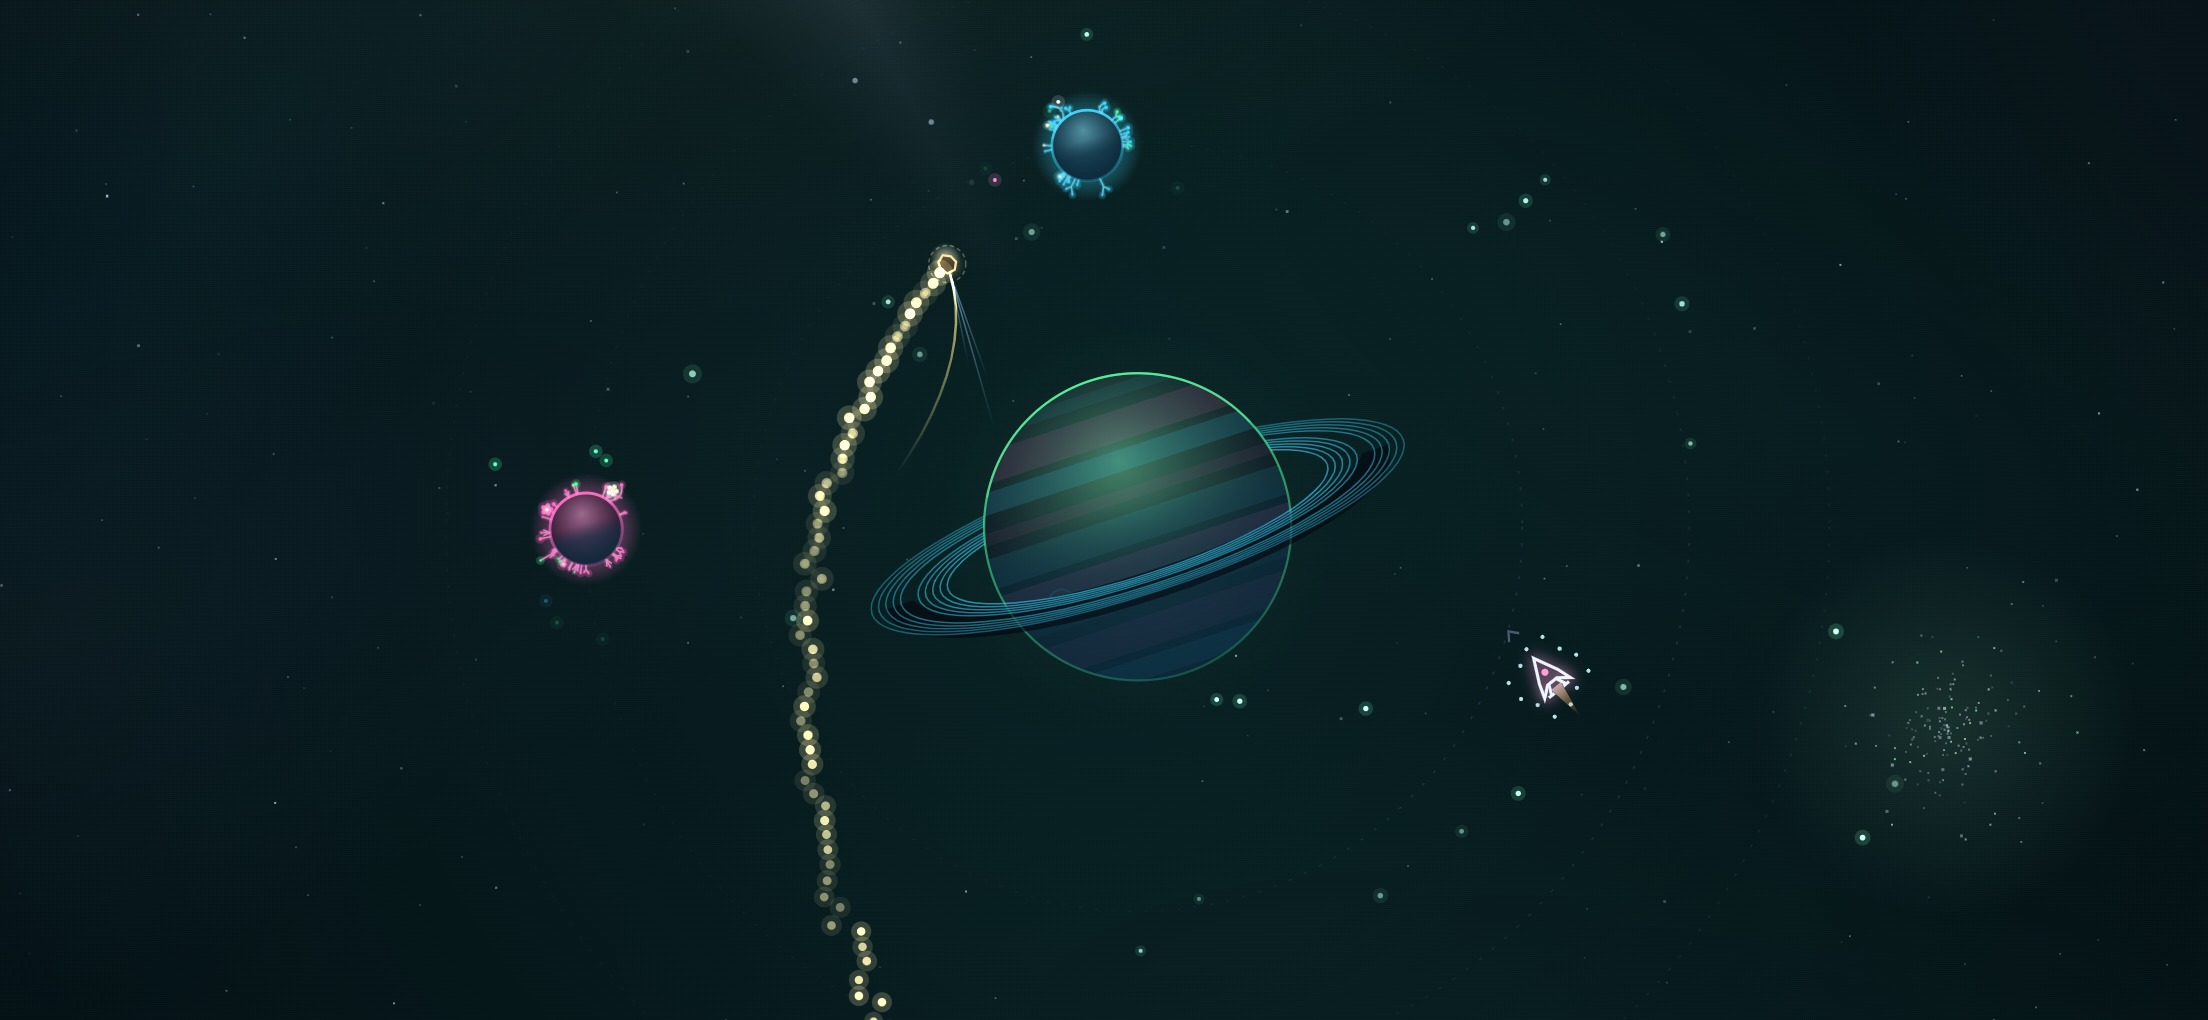
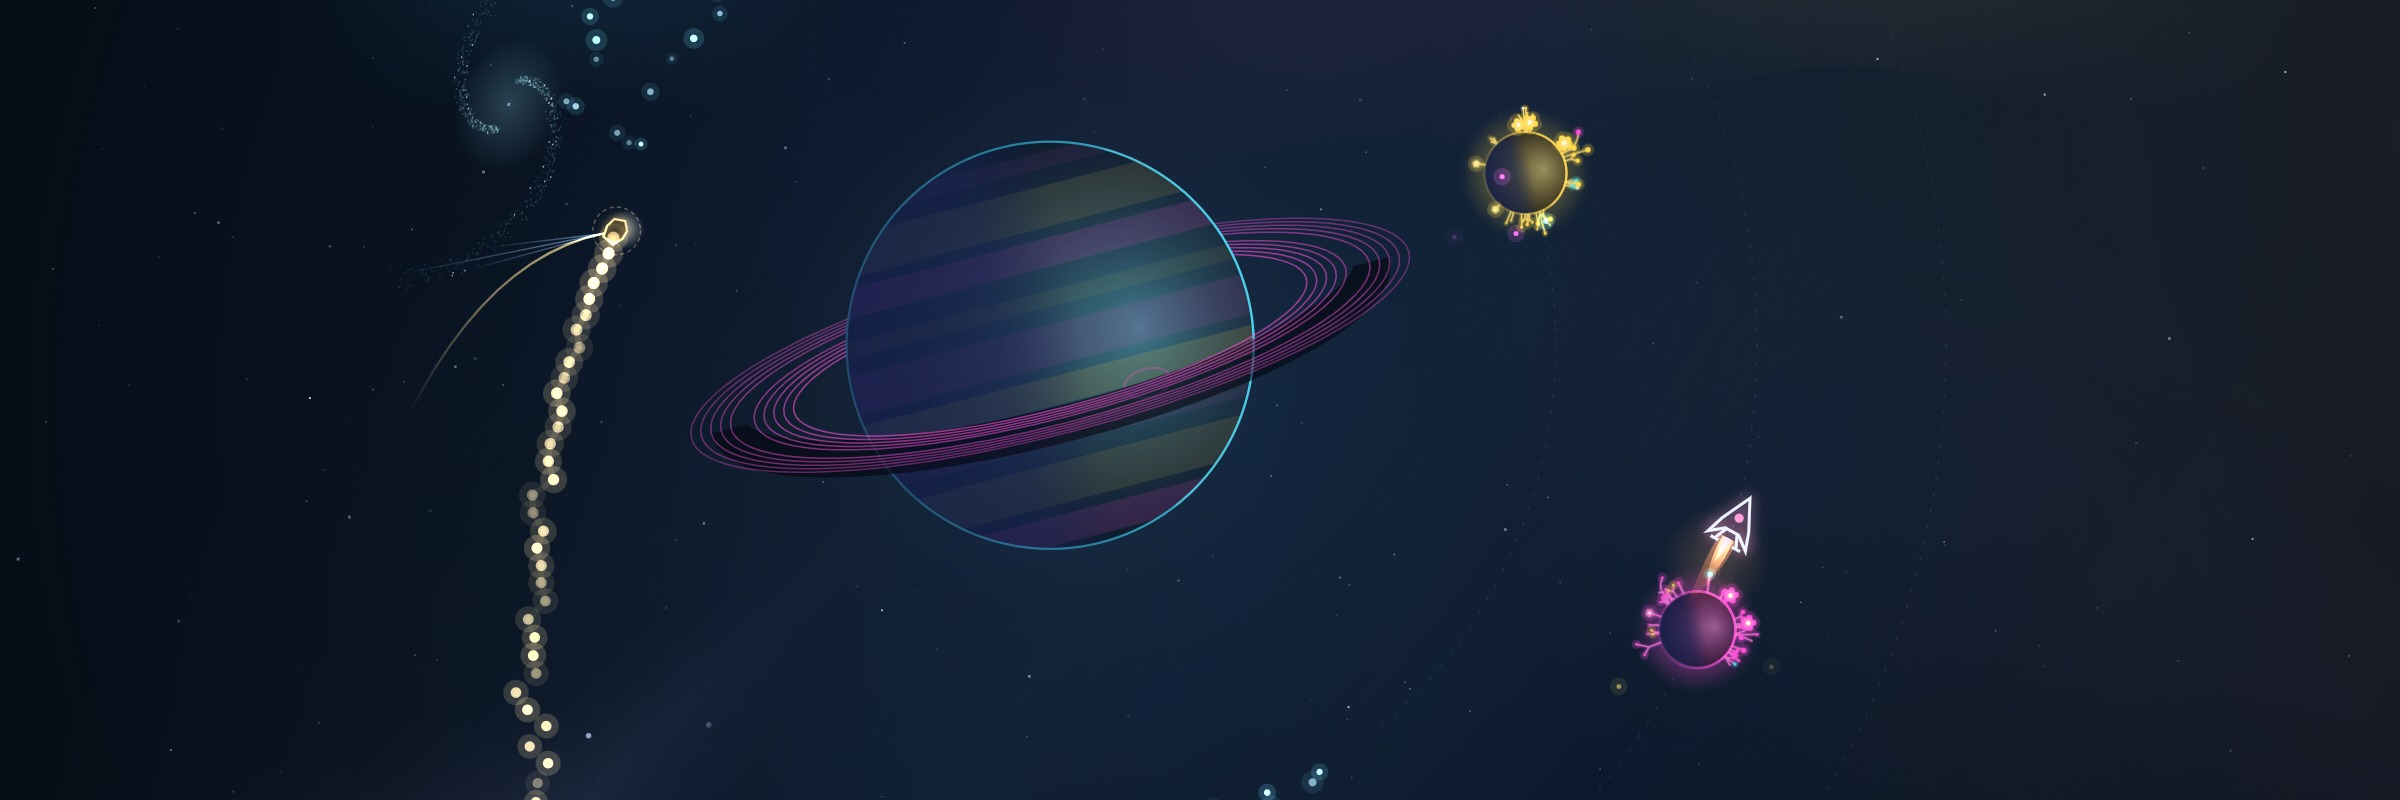
Layered thrust plume, new dark hero image

diff --git a/game.js b/game.js
@@ -657,12 +657,29 @@ const SHIPS = [
 // Draw the chosen ship at the current transform (already rotated and scaled).
 function drawHull(design, throttle, lineWidth) {
   if (throttle > 0.02) {
-    const len = 6 + 14 * throttle * rand(0.8, 1.1);
-    const flame = ctx.createLinearGradient(0, 5, 0, 5 + len);
-    flame.addColorStop(0, `rgba(255,240,200,${0.9 * throttle})`);
-    flame.addColorStop(1, 'rgba(255,140,60,0)');
-    ctx.fillStyle = flame;
-    ctx.beginPath(); ctx.moveTo(-2.6, 5); ctx.lineTo(0, 5 + len); ctx.lineTo(2.6, 5); ctx.fill();
+    // a layered plume: a soft warm glow, a flickering flame with a swaying tip and a white-hot core
+    const t = throttle, len = (8 + 20 * t) * rand(0.85, 1.1);
+    ctx.save();
+    ctx.globalCompositeOperation = 'lighter';
+    const gy = 6 + len * 0.3, gr = len * 0.7;
+    const glow = ctx.createRadialGradient(0, gy, 0, 0, gy, gr);
+    glow.addColorStop(0, `rgba(255,170,90,${0.22 * t})`); glow.addColorStop(1, 'rgba(255,120,60,0)');
+    ctx.fillStyle = glow;
+    ctx.beginPath(); ctx.arc(0, gy, gr, 0, TAU); ctx.fill();
+    const lick = (w, l, c0, c1) => {  // a teardrop of flame, w wide at the nozzle and l long
+      const g = ctx.createLinearGradient(0, 5, 0, 5 + l);
+      g.addColorStop(0, c0); g.addColorStop(1, c1);
+      ctx.fillStyle = g;
+      const tip = rand(-0.5, 0.5) * w;
+      ctx.beginPath(); ctx.moveTo(-w, 5);
+      ctx.quadraticCurveTo(-w * 1.2, 5 + l * 0.45, tip, 5 + l);
+      ctx.quadraticCurveTo(w * 1.2, 5 + l * 0.45, w, 5);
+      ctx.closePath(); ctx.fill();
+    };
+    lick(3.1, len, `rgba(255,150,70,${0.5 * t})`, 'rgba(255,90,40,0)');
+    lick(2.0, len * 0.7, `rgba(255,220,150,${0.75 * t})`, 'rgba(255,150,70,0)');
+    lick(0.9, len * 0.38, `rgba(255,255,240,${0.95 * t})`, 'rgba(255,230,180,0)');
+    ctx.restore();
   }
   ctx.lineWidth = lineWidth;
   ctx.strokeStyle = '#eef7ff'; ctx.shadowColor = design.glow; ctx.shadowBlur = 14;

diff --git a/README.md b/README.md
@@ -1,6 +1,6 @@
 # Moonseed
 
-![A ringed gas giant, a comet with its golden trail, two moons in bloom and the little ship flying past](images/hero.jpg)
+![A ringed gas giant, a comet with its golden trail, two moons in bloom and the little ship lifting off one of them](images/hero.jpg)
 
 *Gather stardust · land gently · grow gardens*
 
@@ -53,8 +53,8 @@ right button for gentle thrust.
 
 ## Tiny on purpose
 
-The whole game is two files: a 2 KB `index.html` and a 171 KB `game.js`. Compressed, that's about
-**54 KB**, a third of the size of the screenshot at the top of this page.
+The whole game is two files: a 2 KB `index.html` and a 172 KB `game.js`. Compressed, that's about
+**55 KB**, a third of the size of the screenshot at the top of this page.
 
 There are no images, no sound files, no fonts and no libraries. Every star, planet, plant and comet is
 drawn by code as you play, and every sound is synthesised live by your browser: the engine's hum, the
